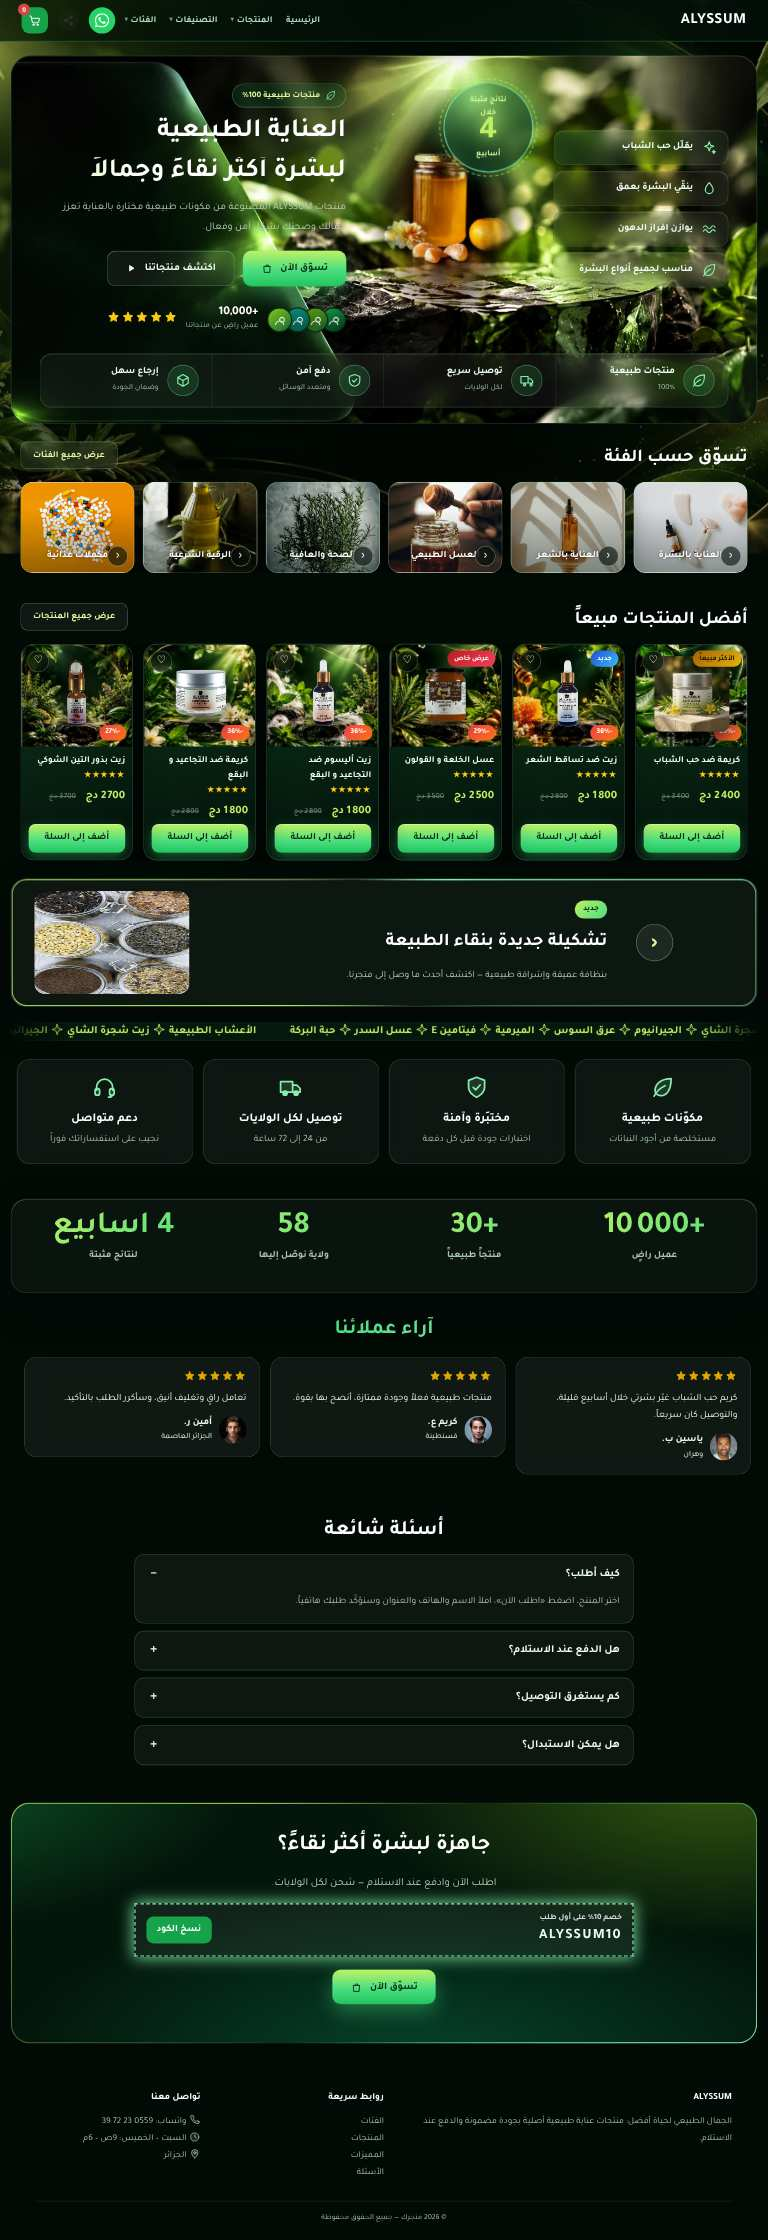
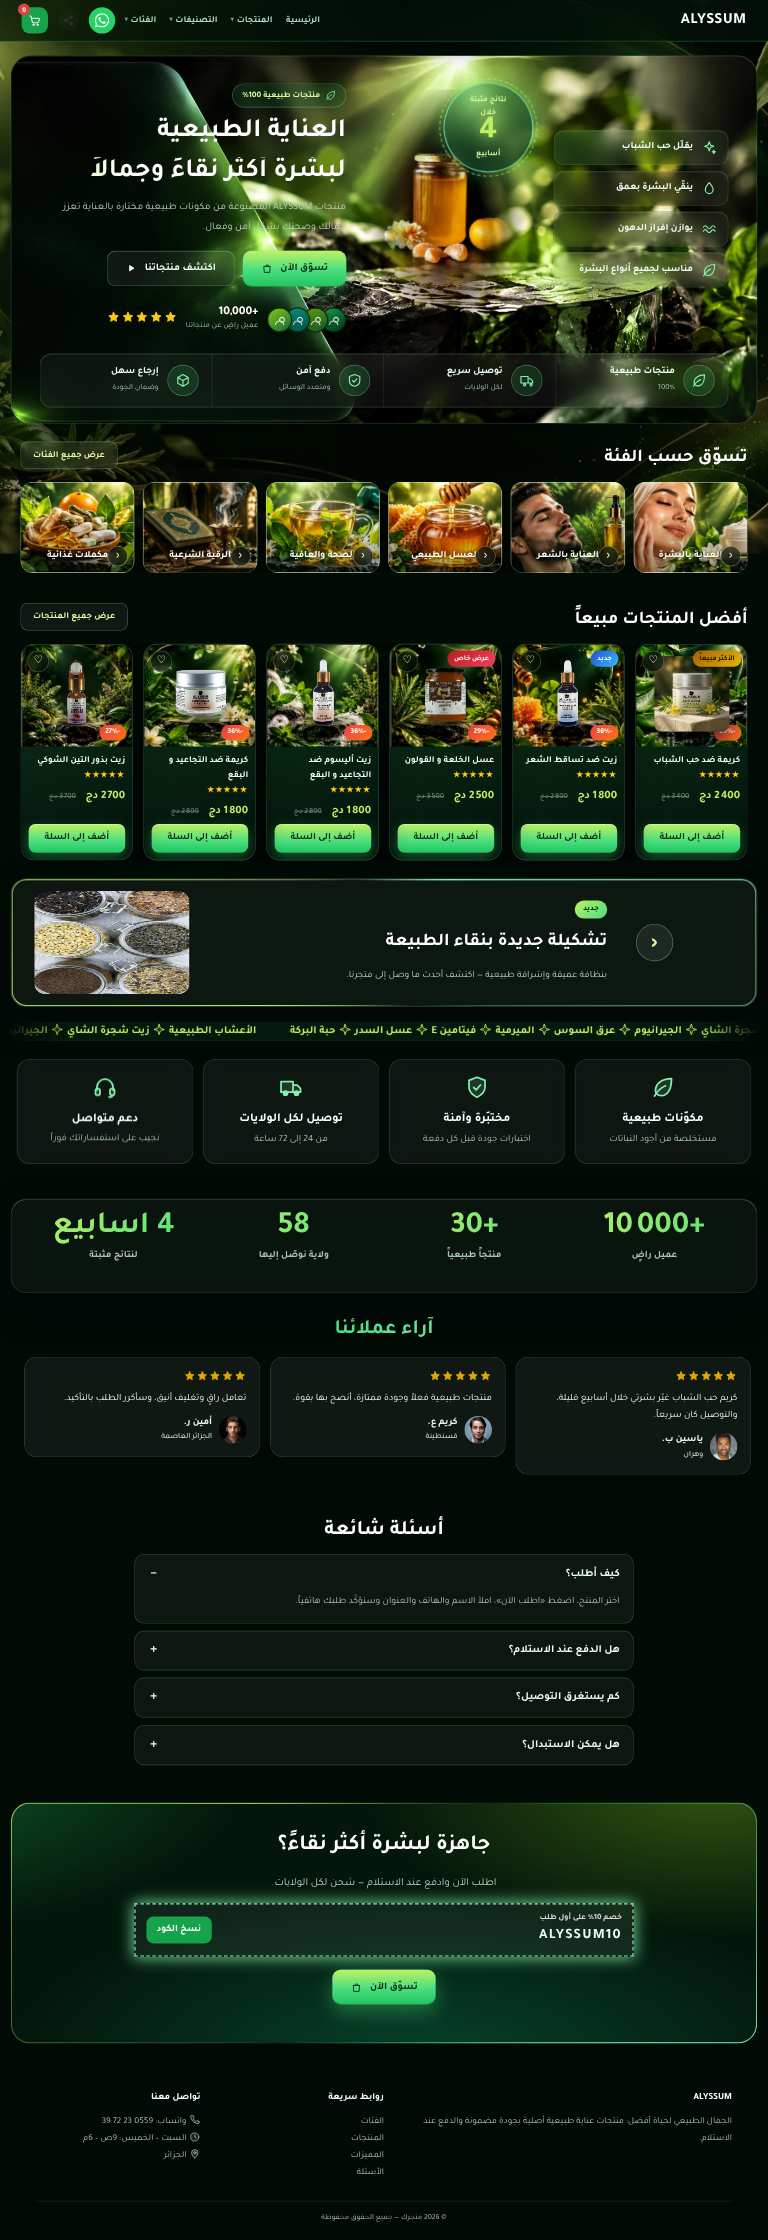
v1.51.6: صور بطاقات الفئات لقالب أليسوم (مولَّدة) وربطها عند التثبيت
Claude-Session: https://claude.ai/code/session_018PaJDUPtbAz51NfPkpNWed

diff --git a/assets/js/admin-nav.js b/assets/js/admin-nav.js
@@ -62,7 +62,7 @@ const AdminNav = (() => {
     { id: "o-trust", cat: "order", fld: "صحة وعسل", n: "ضمانات + شارات ثقة + نموذج الطلب", d: "بطاقات الدفع عند الاستلام والتوصيل ثم شارات الثقة ونموذج الطلب.", b: dflt(["assure", "trust", "order"]) },
     { id: "p-focus-honey", cat: "page", fld: "صحة وعسل", n: "هبوط: عسل التركيز", d: "صفحة هبوط كاملة مبنية بعناصر المطوّر على نمط التصميم المرجعي.", file: "focus-honey" }
   ];
-  const LS = { cat: "all", fld: "all" }; let LIBX = null; const V = "1.51.5";
+  const LS = { cat: "all", fld: "all" }; let LIBX = null; const V = "1.51.6";
   async function libLoad() { if (LIBX) return; LIBX = []; try { const r = await fetch("assets/pages/templates/index.json?v=" + Date.now(), { cache: "no-store" }); if (r.ok) LIBX = (await r.json()).map(x => Object.assign({ file: x.id, adv: true }, x)); } catch (e) { } }
   function libAll() { return LIB.concat(LIBX || []); }
   async function libOpen() { await libLoad(); LS.cat = "all"; LS.fld = "all"; let m = $("tl-lib"); if (!m) { m = document.createElement("div"); m.id = "tl-lib"; m.onclick = e => { if (e.target === m) libClose(); }; document.body.appendChild(m); } m.style.display = "flex"; libDraw(); }
@@ -89,6 +89,7 @@ const AdminNav = (() => {
   const aProds = () => ((typeof PBBind !== "undefined" && PBBind.list) ? PBBind.list() : ((typeof Admin !== "undefined" && Admin.products) || [])).filter(p => p && p.active !== false);
   function alyWalk(n, f) { f(n); (n.cols || []).forEach(c => alyWalk(c, f)); (n.widgets || []).forEach(w => alyWalk(w, f)); (n.free || []).forEach(w => alyWalk(w, f)); }
   /* التثبيت: صور القالب ← صور منتجات المتجر وفئاته، اسم المتجر، والأقسام تُوسَم لتحلّ محل هيدر/محتوى/فوتر الرئيسية */
+  const ALY_CAT = Object.fromEntries(["skin", "hair", "honey", "health", "roqia", "supplements"].map(k => [k, "assets/img/tpl/alyssum-cat-" + k + ".webp"]));      // صور بطاقات الفئات الجاهزة للفئات المعروفة؛ غيرها يأخذ صورة منتجه
   function alyLocalize(page) {
     const P = aProds(), best = P.find(p => (p.tags || []).includes("best") && coverOf(p)) || P.find(p => coverOf(p)), other = P.find(p => p !== best && (p.tags || []).includes("new") && coverOf(p)) || P.find(p => p !== best && coverOf(p)) || best;
     const CT = (typeof Admin !== "undefined" && Admin.categories && Object.keys(Admin.categories).length) ? Admin.categories : (typeof CATEGORIES !== "undefined" ? CATEGORIES : {});
@@ -103,7 +104,7 @@ const AdminNav = (() => {
         if (n.type === "image" && s.slot === "banner" && other) { s.src = coverOf(other); s.alt = other.title; }
         if (n.type === "shopcats" && s.slotCats) {
           const keys = Object.keys(CT).slice(0, 6);
-          if (keys.length) s.items = keys.map(k => ({ cat: k, label: "", img: coverOf(P.find(p => p.cat === k && coverOf(p))) || coverOf(best) }));
+          if (keys.length) s.items = keys.map(k => ({ cat: k, label: "", img: ALY_CAT[k] || coverOf(P.find(p => p.cat === k && coverOf(p))) || coverOf(best) }));
         }
         if (n.type === "sfoot" && nm) { s.copy = "© " + new Date().getFullYear() + " " + nm + " — جميع الحقوق محفوظة"; }
       });

diff --git a/admin.html b/admin.html
@@ -3,7 +3,7 @@
 <head>
 <meta charset="UTF-8">
 <meta name="viewport" content="width=device-width, initial-scale=1.0">
-<meta name="admin-version" content="1.51.5">
+<meta name="admin-version" content="1.51.6">
 <title>لوحة التحكم — أليسوم</title>
 <link rel="preconnect" href="https://fonts.googleapis.com">
 <link href="https://fonts.googleapis.com/css2?family=Cairo:wght@400;700;800;900&display=swap" rel="stylesheet">
@@ -1540,12 +1540,12 @@ document.addEventListener("keydown", e=>{ if(e.key === "Escape") SitePreview.clo
 <script src="assets/js/chrome.js?v=9"></script>
 <script src="assets/js/modern-icons.js?v=1.28.3"></script>
 <script>document.addEventListener("DOMContentLoaded",function(){try{ModernIcons.style();ModernIcons.watch({skip:"#pbx-frame,.pbx-ip .g,[data-keep-emoji]"})}catch(e){}})</script>
-<script src="assets/js/ctl-help.js?v=1.51.5"></script>
-<script src="assets/js/chrome-admin.js?v=1.51.5"></script>
-<script src="assets/js/admin-assistant.js?v=1.51.5"></script>
+<script src="assets/js/ctl-help.js?v=1.51.6"></script>
+<script src="assets/js/chrome-admin.js?v=1.51.6"></script>
+<script src="assets/js/admin-assistant.js?v=1.51.6"></script>
 <script src="assets/js/img-gen.js?v=1.51.0"></script>
-<script src="assets/js/admin-nav.js?v=1.51.5"></script>
-<script src="assets/js/admin-update.js?v=1.51.5"></script>
+<script src="assets/js/admin-nav.js?v=1.51.6"></script>
+<script src="assets/js/admin-update.js?v=1.51.6"></script>
 <script src="assets/js/ai-vision.js?v=51"></script>
 <script src="assets/js/avatar-script.js"></script>
 <script src="assets/js/wilayas.js"></script>

diff --git a/scripts/gen-templates-alyssum.py b/scripts/gen-templates-alyssum.py
@@ -157,8 +157,8 @@ hero_right = C([alyhtml(hero_ben, **anim("slideEnd" if False else "fadeUp", .8, 
 hero_trust = C([alyhtml(trust, **anim("fadeUp", .8, .5))], w=100, pad=dm([26, 0, 0, 0]))
 hero = S([hero_text, hero_mid, hero_right, hero_trust], cw={"d": 1240}, pad=dm([40, 40, 26, 40], [30, 18, 24, 18]), mar=dm([22, 18, 0, 18], [14, 8, 0, 8]), rev=True, cls="aly-glass", gap={"d": 14}, bgImg=IMG("alyssum-hero-bg"), bgSize="cover", bgPos="center", **{"cid": "hero"})
 
-cats_w = W("shopcats", items=[{"cat": "skin", "label": "", "img": IMG("skin_gua")}, {"cat": "hair", "label": "", "img": IMG("skin_dropper")}, {"cat": "honey", "label": "", "img": IMG("honey_dipper")},
-                                {"cat": "health", "label": "", "img": IMG("herb_rosemary")}, {"cat": "roqia", "label": "", "img": IMG("oil_olive")}, {"cat": "supplements", "label": "", "img": IMG("supp_caps")}],
+cats_w = W("shopcats", items=[{"cat": "skin", "label": "", "img": IMG("alyssum-cat-skin")}, {"cat": "hair", "label": "", "img": IMG("alyssum-cat-hair")}, {"cat": "honey", "label": "", "img": IMG("alyssum-cat-honey")},
+                                {"cat": "health", "label": "", "img": IMG("alyssum-cat-health")}, {"cat": "roqia", "label": "", "img": IMG("alyssum-cat-roqia")}, {"cat": "supplements", "label": "", "img": IMG("alyssum-cat-supplements")}],
           cols={"d": 6, "t": 3, "m": 2}, gap={"d": 14}, rad={"d": 20}, fs={"d": 16}, tc="#ffffff", ov="#021008", ovo=38, ratio="5/4", slotCats=True,
           fxs=[FX("بطاقات فئات زجاجية", "selector .pb-sci{border:1px solid rgba(134,239,172,.3);box-shadow:0 18px 44px rgba(0,0,0,.5),inset 0 1px 0 rgba(255,255,255,.14);transition:transform .45s cubic-bezier(.2,.8,.2,1),box-shadow .45s,border-color .3s;overflow:hidden;position:relative}selector .pb-sci:hover{transform:translateY(-8px);border-color:rgba(190,242,100,.7);box-shadow:0 30px 70px rgba(0,0,0,.6),0 0 40px rgba(74,222,128,.3)}selector .pb-sci::after{content:\"‹\";position:absolute;bottom:10px;inset-inline-start:10px;width:32px;height:32px;border-radius:50%;display:grid;place-items:center;background:rgba(2,12,7,.6);border:1px solid rgba(255,255,255,.4);color:#fff;font-size:20px;backdrop-filter:blur(8px);transition:.3s}selector .pb-sci:hover::after{background:#4ade80;color:#052e16;transform:translateX(-5px)}")], **anim("fadeUp", .8))
 cats_sec = S([C([cats_w], w=100)], cw={"d": 1240}, pad=dm([4, 20, 20, 20], [4, 16, 14, 16]), cid="categories")

diff --git a/CLAUDE.md b/CLAUDE.md
@@ -55,6 +55,7 @@
 - **صفحات الغلاف والمواقع البرمجية (v1.33.2):** `getPage` في `pagebuilder-clone.js` يتّبع الإطار الرئيسي لصفحات الغلاف (`mainIframe`، مثل معاينة قوالب Wix `iframe[data-hook=desktop-iframe]`) حتى مستويين، ويحوّل تلقائياً إلى `fetchFull` عند فشل الجلب السريع أو إذا كانت الصفحة قشرة جافاسكربت (`bodyInfo`: نص<150 وصور<3) متى توفّر GitHub (`canFull`). جُرّب على قالب Wix حقيقي عبر Actions (61 عنصراً بمواضعها).
 - **إضافة كروم لنسخ القالب (v1.34.0):** `extension/alyssum-clone-helper/` (MV3: `manifest.json`، `bridge.js` محتوى سكربت على `*://*/admin.html*` يمرّر رسائل `window.postMessage` — الطلب `{alyReq:1,type:ping|fetch,id}` والردّ `{aly:1,type:pong|res,id}` — ويطلب موافقة `confirm` لكل أصل ويحفظها في `chrome.storage.local`، و`background.js` يفتح نافذة popup مؤقتة `chrome.windows.create` (يجرّب عروضاً أصغر إن كانت الشاشة أصغر)، ينتظر التحميل وصفحات التحقق حتى 40ث، يمرّر الصفحة، يجمّد DOM ويعيد `{html,iw,title}` ثم يغلقها). تُحزَّم بـ`python3 scripts/build-extension.py` إلى `assets/ext/alyssum-clone-helper.zip` (**أعد بناءها بعد أي تعديل للإضافة**)، وفي `pagebuilder-clone.js` قسم `EXT`/`extCall`/`extPing`/`extUi`/`fetchViaExt`/`extHelp` وأولوية `getPage`: GitHub الكامل (إن طُلب) ← الإضافة ← الوسطاء ← المتصفح الكامل تلقائياً. اختُبرت بـPlaywright (`launchPersistentContext` + `--headless=new --load-extension`) على صفحة مبنية بالجافاسكربت. **v1.34.1 (إضافة 1.1.0):** `grab` يقيس كل الإطارات بلا تعديل (`allFrames`) وينتظر حتى ~30ث ظهور محتوى (الإطار الداخلي يتأخر)، يمرّر الصفحة وحاويات التمرير الداخلية، ثم يجمّد **الإطار الأكبر محتوى فقط** (`frameIds`) — لا تجمّد كل الإطارات معاً فالرئيسي يحذف الـiframe قبل أن يعمل سكربت الداخلي (كانت صفحات Wix تظهر بيضاء)؛ يعيد `url` الإطار ليكون أساس `<base>`، ويرفض الصفحة الفارغة برسالة، ولوحة النسخ تنبّه «حدّث الإضافة» إن كانت النسخة <1.1.0 (v1.34.2: `extOld()` تتجاهل الإضافة القديمة، و`load` يرفض عرض صفحة وصلت فارغة بنص<60 وصور<3 برسالة بدل معاينة بيضاء؛ اختُبر بالرابط الحقيقي لقالب Wix wh-1050 عبر Playwright + الإضافة). **v1.34.4 (إضافة 1.1.2):** النافذة تُفتح `focused:true` (كروم يوقف رسم النوافذ المحجوبة فلا تُحمَّل الأقسام السفلية) و`grab` يعيد `stats{text,imgs,h,frames}` فتُظهره حالة الأداة «قرأ كروم N حرفاً…» لتشخيص الصفحات الناقصة. **v1.34.6:** `getPage` يُرجع `src` (chrome|proxy|github) وتُظهره حالة الأداة «[المصدر: …]»؛ والجلب العادي (`proxy`) الذي يعيد قشرة (نص<150 وصور حقيقية<3) يُرفض برسالة تدلّ على تثبيت/تحديث الإضافة أو سبب فشلها (`S.extErr`). **v1.34.7 (إضافة 1.1.3):** اختيار الإطار: إن غطّى إطار داخلي >50% من نافذة الإطار الرئيسي (`bf`) فالمحتوى فيه لا في الغلاف وتنتظر `measure` تحميله (كانت تُنسخ أحياناً شريط Wix العلوي فقط لأن نص الغلاف تجاوز العتبة)؛ والأداة تقيس المعاينة (`diagPage`/`measureDoc` بـ`checkVisibility`) وتُظهر العناصر المخفية بـopacity:0/visibility:hidden إن كانت المعاينة شبه فارغة مع وجود نص، وزر «نسخ التقرير» (`copyDiag`) ينسخ `S.diag` للدعم؛ وحدّ `extOld` صار 1.1.3. **تنبيه اختبار:** لا تكتب `open(f,'w').write(open(f).read()...)` فهو يُفرغ الملف (أفرغ manifest.json فتوقفت الإضافة عن التحميل)؛ تحقق بـ`ctx.serviceWorkers().length` في Playwright (ارفع الحد في `extUi` عند تغيير بروتوكول الإضافة).
 - **v1.51.2/1.51.3 — أليسوم (جوال + هيرو):** `assets/img/tpl/alyssum-bg-m.webp` خلفية الجوال (`@media(max-width:767px)` على `body::before`)، و`assets/img/tpl/alyssum-hero-bg.webp` (2000×670، مولَّدة بـGemini: لوحة زجاج على اليسار + صخرة/منصة وأشعة شمس) خلفية قسم الهيرو `#hero.aly-glass` عبر `bgImg` (قابلة للتبديل من المطوّر) وتدرّج `.pb-sec.aly-glass:not(#hero)` لبقية الأقسام الزجاجية؛ على الجوال طبقة تعتيم `::before`. صورة المنتج في الهيرو (`slot:hero`) بلا إطار ولها `mask-image` إهليلجي يذيب حوافها في المشهد (تبقى أفضل بمنتج شفاف الخلفية). حجم خط الهيرو 44 وعمود النص 46% ليبقى ارتفاعه قريباً من نسبة الخلفية 3:1. البانر (`slot:banner`) لم يُستبدل بعد.
+- **v1.51.6 — بطاقات الفئات (أليسوم):** `assets/img/tpl/alyssum-cat-<skin|hair|honey|health|roqia|supplements>.webp` (500×400 مقصوصة من لوحة Gemini) تستعملها بطاقات `shopcats` في القالب، وفي التثبيت `ALY_CAT` في `alyLocalize` (admin-nav.js) تعطي الفئات المعروفة هذه الصور وغيرها يبقى بصورة منتجه. فيها امرأة بخمار ورجل (أذرع مكشوفة قليلاً) — مقبولة من صاحب المتجر.
 - **v1.51.5 — مشاهد بطاقات المنتجات (أليسوم):** `assets/img/tpl/alyssum-sc1..6.webp` (500×500، مقصوصة من لوحة 3×2 مولَّدة بـGemini: منصة حجرية بالصبّار/العسل/الأعشاب) خلفيات `.pb-pci` (شرائح المنتجات) و`.aly-grid .card .thumb` (شبكة الرئيسية) بالتناوب `nth-child(6n+k)`؛ صورة المنتج `position:absolute` بعرض 68% وbottom 15% مع `drop-shadow` فتقف على المنصة، وتُلغى شفافية الخلفية القديمة. **تعتمد على أن غلاف المنتج PNG/WebP شفاف الخلفية** (أغلب منتجات المتجر كذلك)؛ الغلاف المعتم (صور الباقات pack4/pack13/pack-djin وغلاف anti-acne `01.webp` وهو مشهد) يظهر كمستطيل فوق المشهد — استعمل صورة شفافة للمنتج كغلاف.
 - **v1.51.4:** بطاقات المنتجات في أليسوم (`.pb-pc` و`.aly-grid .card`) شبه معتمة (`rgba(12,54,29,.97)→rgba(3,16,9,.99)`) بطلب صاحب المتجر لتظهر الصور والأسعار فوق الخلفية الفوتوغرافية؛ لا تعد تخفيف شفافيتها.
 - **v1.51.1 — خلفية أليسوم:** `assets/img/tpl/alyssum-bg.webp` (صورة مولَّدة بـGemini من اشتراك صاحب المتجر) صارت خلفية `body::before` الثابتة في `ALY_CSS` (gen-templates-alyssum.py) بالمسار المطلق `/assets/img/tpl/alyssum-bg.webp` مع تدرّج تعتيم، وأُزيلت أوراق SVG القديمة (`body::after`)؛ على الجوال `background-position:left`. عند طلب صور أخرى لأصول القالب يولّدها صاحب المتجر في تطبيق جيميني ويرسلها، ثم تُحفظ في `assets/img/tpl/` وتُضاف لـ`shared-files.json`.

diff --git a/assets/img/tpl/CREDITS.md b/assets/img/tpl/CREDITS.md
@@ -5,3 +5,4 @@
 - `alyssum-bg.webp` و`alyssum-bg-m.webp` (الجوال): خلفية قالب أليسوم، مولَّدة بالذكاء الاصطناعي (Gemini) بطلب صاحب المتجر؛ بلا علامات مائية.
 - `alyssum-hero-bg.webp`: خلفية الهيرو في قالب أليسوم، مولَّدة بالذكاء الاصطناعي (Gemini) بطلب صاحب المتجر؛ بلا علامات مائية.
 - `alyssum-sc1..6.webp`: ست خلفيات مشاهد لبطاقات المنتجات في قالب أليسوم، مولَّدة بالذكاء الاصطناعي (Gemini) بطلب صاحب المتجر؛ بلا علامات مائية.
+- `alyssum-cat-{skin,hair,honey,health,roqia,supplements}.webp`: صور بطاقات الفئات في أليسوم، مولَّدة بالذكاء الاصطناعي (Gemini) بطلب صاحب المتجر؛ بلا علامات مائية (فيها امرأة بخمار ورجل).
